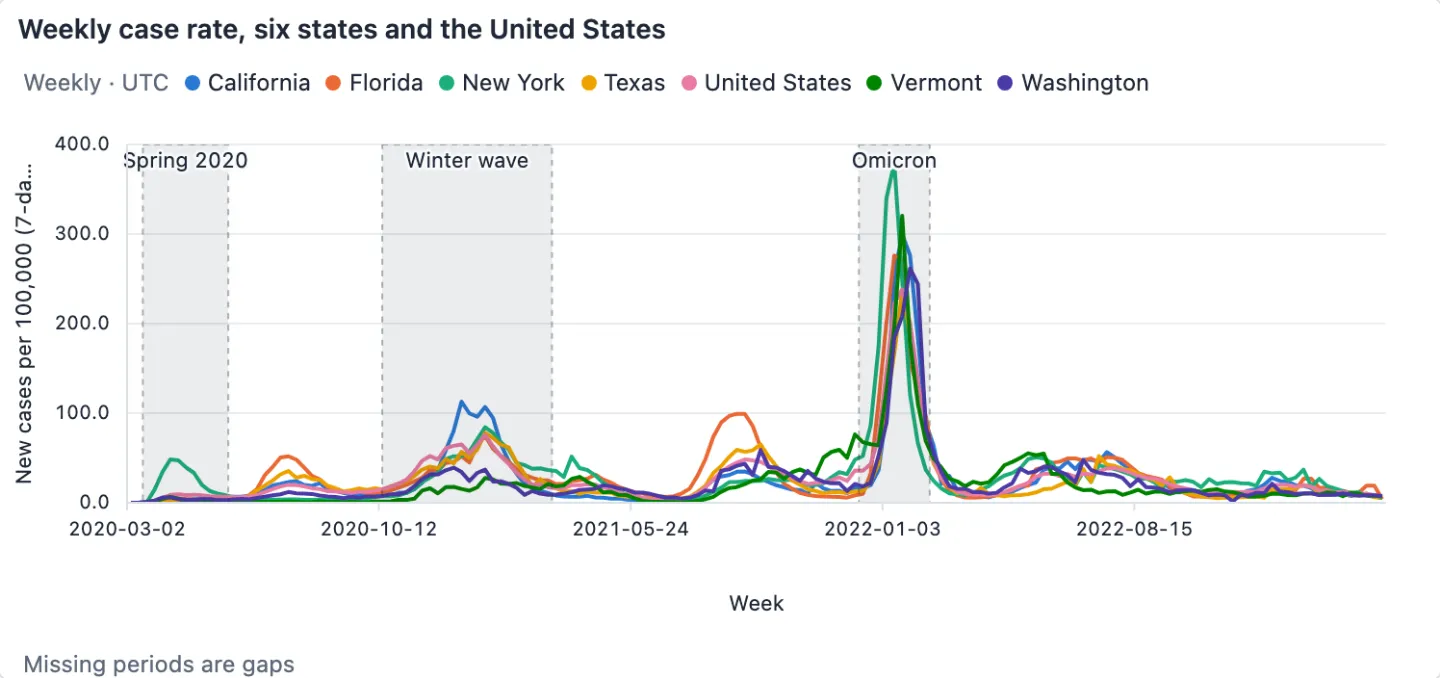
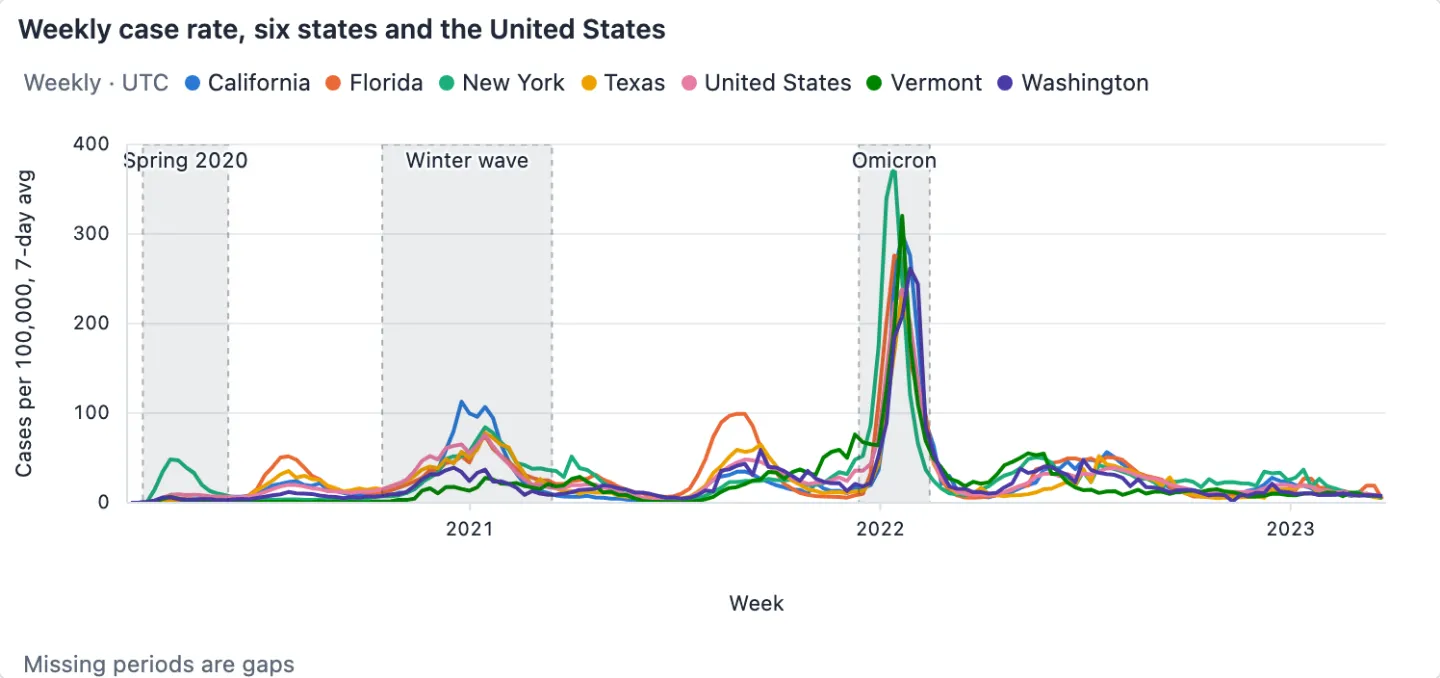
fix(axes): calendar ticks, no padded zero fractions, full date labels
A field with precision=1 printed every round tick as 300.0. Ticks now
drop a fraction that is zero on every tick. Weekly line charts labeled
every nth period with an ISO date; they now tick on calendar
boundaries (2021, 2022). Crowded category axes give kept labels room
for twelve characters, so dates stop reading 2021-…. The Covid
notebooks shorten a y title that the axis cut off.

diff --git a/packages/explorEDA/src/components/charts/Axis/axisPlan.ts b/packages/explorEDA/src/components/charts/Axis/axisPlan.ts
@@ -281,6 +281,22 @@ function position(scale: ChartScale, tick: number | string) {
 
 const AXIS_WORD = { x: "Horizontal", y: "Vertical" } as const;
 
+/**
+ * A field's precision pads every tick, so a round axis reads 0.0, 100.0,
+ * 200.0. When every tick's fraction is zero, the ticks drop it; ticks with a
+ * real fraction, such as 2.0 beside 2.5, keep it.
+ */
+function trimZeroFractions(
+  format: AxisInput["format"],
+  ticks: (number | string)[]
+): AxisInput["format"] {
+  const zero = /(\d)\.0+(?!\d)/;
+  const labels = ticks.map((tick) => format(tick));
+  if (!labels.length || !labels.every((label) => zero.test(label)))
+    return format;
+  return (value) => format(value).replace(zero, "$1");
+}
+
 function planAxis(
   axis: AxisName,
   input: AxisInput,
@@ -289,7 +305,7 @@ function planAxis(
   margin: MarginSettings,
   footer = 0
 ): AxisPlan {
-  const { scale, format } = input;
+  const { scale } = input;
   const band = "bandwidth" in scale;
   const typography = input.typography ?? DEFAULT_AXIS_TYPOGRAPHY;
   const tickFontSize = input.tickFontSize ?? typography.tickSize;
@@ -304,15 +320,21 @@ function planAxis(
       : "base" in scale
         ? logTicks(scale, requested)
         : scale.ticks(requested));
+  const format = band
+    ? input.format
+    : trimZeroFractions(input.format, candidates);
   // Crowded band labels keep every stride-th category, so each shown label
-  // has room for about six characters instead of two or three.
+  // has room for about six characters instead of two or three. Past a dozen
+  // categories most labels drop anyway, so the kept ones get room for twelve
+  // and a date reads 2021-07-05, not 2021-….
+  const roomChars = candidates.length > 12 ? 12 : 6;
   const stride =
     axis === "x" && band
       ? Math.max(
           1,
           Math.ceil(
             (Math.min(
-              6 * tickFontSize * 0.7,
+              roomChars * tickFontSize * 0.7,
               Math.max(
                 0,
                 ...candidates.map((tick) =>

diff --git a/packages/explorEDA/src/components/charts/LineChart/TimeSeriesChart.tsx b/packages/explorEDA/src/components/charts/LineChart/TimeSeriesChart.tsx
@@ -2,6 +2,7 @@ import { useThemeColors } from "@/hooks/useDisplayColorScales";
 import { useDisplayColorScale } from "@/hooks/useDisplayColorScales";
 import { useAxisTypography } from "../chartTypography";
 import { useId, useMemo, useRef, useState } from "react";
+import { scaleUtc } from "d3-scale";
 import { Button } from "@/components/ui/button";
 import { convertFieldValue } from "@/lib/fieldSettings";
 import { utcPeriod } from "@/lib/dailyRollup";
@@ -149,11 +150,11 @@ export function TimeSeriesChart({
     typography,
   ]);
   const axes = useMemo(() => {
-    const periods = plan.series[0]?.points ?? [];
-    const step = Math.max(
-      1,
-      Math.ceil(periods.length / (settings.xGridLines || 5))
-    );
+    // Ticks fall on calendar boundaries, such as each new year or quarter,
+    // and read as 2021 or Apr rather than as the start of every nth period.
+    const calendar = scaleUtc().domain(plan.xScale.domain());
+    const count = settings.xGridLines || 5;
+    const tickText = calendar.tickFormat(count);
     return planAxes({
       plotWidth: plan.plotWidth,
       plotHeight: plan.plotHeight,
@@ -161,18 +162,13 @@ export function TimeSeriesChart({
       x: {
         typography,
         scale: plan.xScale,
-        tickValues: periods
-          .filter((_, i) => i % step === 0)
-          .map((point) => point.start),
+        tickValues: calendar.ticks(count).map((date) => date.getTime()),
         field: settings.xField,
         tickFontSize: settings.xAxis.tickFontSize,
         labelFontSize: settings.xAxis.labelFontSize,
         label: settings.xAxisLabel || `${plan.dateLabel} · UTC`,
         grid: settings.xAxis.grid,
-        format: (value) =>
-          new Date(Number(value))
-            .toISOString()
-            .slice(0, time.interval === "year" ? 4 : 10),
+        format: (value) => tickText(new Date(Number(value))),
       },
       y: {
         typography,

diff --git a/apps/demo/public/daily-viz/projects/covid/six-states.eda.md b/apps/demo/public/daily-viz/projects/covid/six-states.eda.md
@@ -17,7 +17,7 @@ wave:cat=wave label="Wave"
 The first line to leave the floor is New York’s, and for two months it is the only one. New York’s spring 2020 peak was 48.38 new cases per 100,000 a day, and the nation’s was 9.29. The other five states never passed 6.57 that spring.
 
 ```eda
-line @nb-covid-six-states-1 x=date time.interval=week time.aggregation=average time.measureField=cases time.splitField=state title="Weekly case rate, six states and the United States" y.title="New cases per 100,000 (7-day average)" x.title="Week" {
+line @nb-covid-six-states-1 x=date time.interval=week time.aggregation=average time.measureField=cases time.splitField=state title="Weekly case rate, six states and the United States" y.title="Cases per 100,000, 7-day avg" x.title="Week" {
   band x=2020-03-16..2020-05-31 "Spring 2020"
   band x=2020-10-15..2021-03-15 "Winter wave"
   band x=2021-12-13..2022-02-14 "Omicron"
@@ -37,7 +37,7 @@ heatmap @nb-covid-six-states-2 state columnField=wave aggregation=average measur
 Zoom in on the winter of 2021–22 and the six lines rise and fall together. The earlier waves differed in timing by months; here all six states and the nation peaked within two weeks of each other in January 2022. New York’s Omicron peak was 379.44, Texas’s was 236.06, and the nation’s was 238.25. The lowest Omicron peak among the six was higher than any earlier peak anywhere.
 
 ```eda
-line @nb-covid-six-states-3 x=date time.interval=week time.aggregation=average time.measureField=cases time.splitField=state where.date=2021-11-01..2022-04-30 title="Weekly case rate, November 2021 to April 2022" y.title="New cases per 100,000 (7-day average)" x.title="Week" {
+line @nb-covid-six-states-3 x=date time.interval=week time.aggregation=average time.measureField=cases time.splitField=state where.date=2021-11-01..2022-04-30 title="Weekly case rate, November 2021 to April 2022" y.title="Cases per 100,000, 7-day avg" x.title="Week" {
   rule x=2022-01-17 "Peak week for four of six"
 }
 ```

diff --git a/apps/demo/public/daily-viz/projects/covid/vermont-florida.eda.md b/apps/demo/public/daily-viz/projects/covid/vermont-florida.eda.md
@@ -17,7 +17,7 @@ field "compare.Cases per 100k" precision=1
 Florida climbed in summer and again in winter; Vermont stayed near zero until November. Vermont’s 2020 weeks averaged 3.71 new cases per 100,000, and Florida’s averaged 19.27. Up to the end of November 2021, Vermont averaged 12.47 a week against Florida’s 26.63.
 
 ```eda
-line @nb-covid-vermont-florida-1 x=date time.interval=week time.aggregation=average time.measureField=cases time.splitField=state title="Weekly case rate, Vermont, Florida, and the United States" y.title="New cases per 100,000 (7-day average)" x.title="Week" {
+line @nb-covid-vermont-florida-1 x=date time.interval=week time.aggregation=average time.measureField=cases time.splitField=state title="Weekly case rate, Vermont, Florida, and the United States" y.title="Cases per 100,000, 7-day avg" x.title="Week" {
   band x=2021-12-13..2022-02-14 "Omicron"
 }
 ```
@@ -37,7 +37,7 @@ ecdf @nb-covid-vermont-florida-2 cases color=state direction=below where.date=20
 Each box is one state’s weeks from December 2021 to March 2022. The state that spent two years lowest peaked highest: Vermont’s Omicron peak was 320.40 new cases per 100,000, and Florida’s was 275.95. Across the whole wave, Vermont’s weeks averaged 86.86 and Florida’s 82.59.
 
 ```eda
-boxplot @nb-covid-vermont-florida-3 cases color=state where.wave="Omicron 2022" title="Weekly case rates during Omicron, December 2021 to March 2022" y.title="New cases per 100,000 (7-day average)"
+boxplot @nb-covid-vermont-florida-3 cases color=state where.wave="Omicron 2022" title="Weekly case rates during Omicron, December 2021 to March 2022" y.title="Cases per 100,000, 7-day avg"
 ```
 
 ## Wave by wave, the gap closed and never reopened

diff --git a/apps/demo/public/daily-viz/projects/covid/fifty-states.eda.md b/apps/demo/public/daily-viz/projects/covid/fifty-states.eda.md
@@ -43,7 +43,7 @@ heatmap @nb-covid-fifty-states-2 ym columnField=code aggregation=average measure
 Each dot is one state in one week. Delta’s dots spread across the autumn: Arkansas and Missouri peaked in early August 2021 and Connecticut, New Jersey, and Rhode Island not until the last week of November; Alaska’s Delta peak was 179.44 and Maryland’s was 20.30. Omicron’s dots rise as one column: every state peaked between January 3 and January 31, 2022. Rhode Island’s Omicron peak was 456.73 and Maine’s was 79.50, the lowest of the 51.
 
 ```eda
-scatter @nb-covid-fifty-states-3 x=date y=cases opacity=0.5 x.ticks=5 where.date=2021-07-05..2022-03-28 title="Every state’s weekly case rate, July 2021 to March 2022" y.title="New cases per 100,000 (7-day average)" x.title="Week" {
+scatter @nb-covid-fifty-states-3 x=date y=cases opacity=0.5 x.ticks=5 where.date=2021-07-05..2022-03-28 title="Every state’s weekly case rate, July 2021 to March 2022" y.title="Cases per 100,000, 7-day avg" x.title="Week" {
   band x=2021-08-09..2021-11-29 "Delta peaks"
   band x=2022-01-03..2022-01-31 "Omicron peaks"
   callout "Rhode Island, 456.7" pick=max

diff --git a/.changeset/axis-ticks-drop-a-zero-fraction-that-a-field-s-p.md b/.changeset/axis-ticks-drop-a-zero-fraction-that-a-field-s-p.md
@@ -1,0 +1,5 @@
+---
+"exploreda": patch
+---
+
+Axis ticks drop a zero fraction that a field's precision adds (300, not 300.0), weekly and monthly line charts tick on calendar boundaries such as 2021 or April, and crowded category axes keep full date labels.
